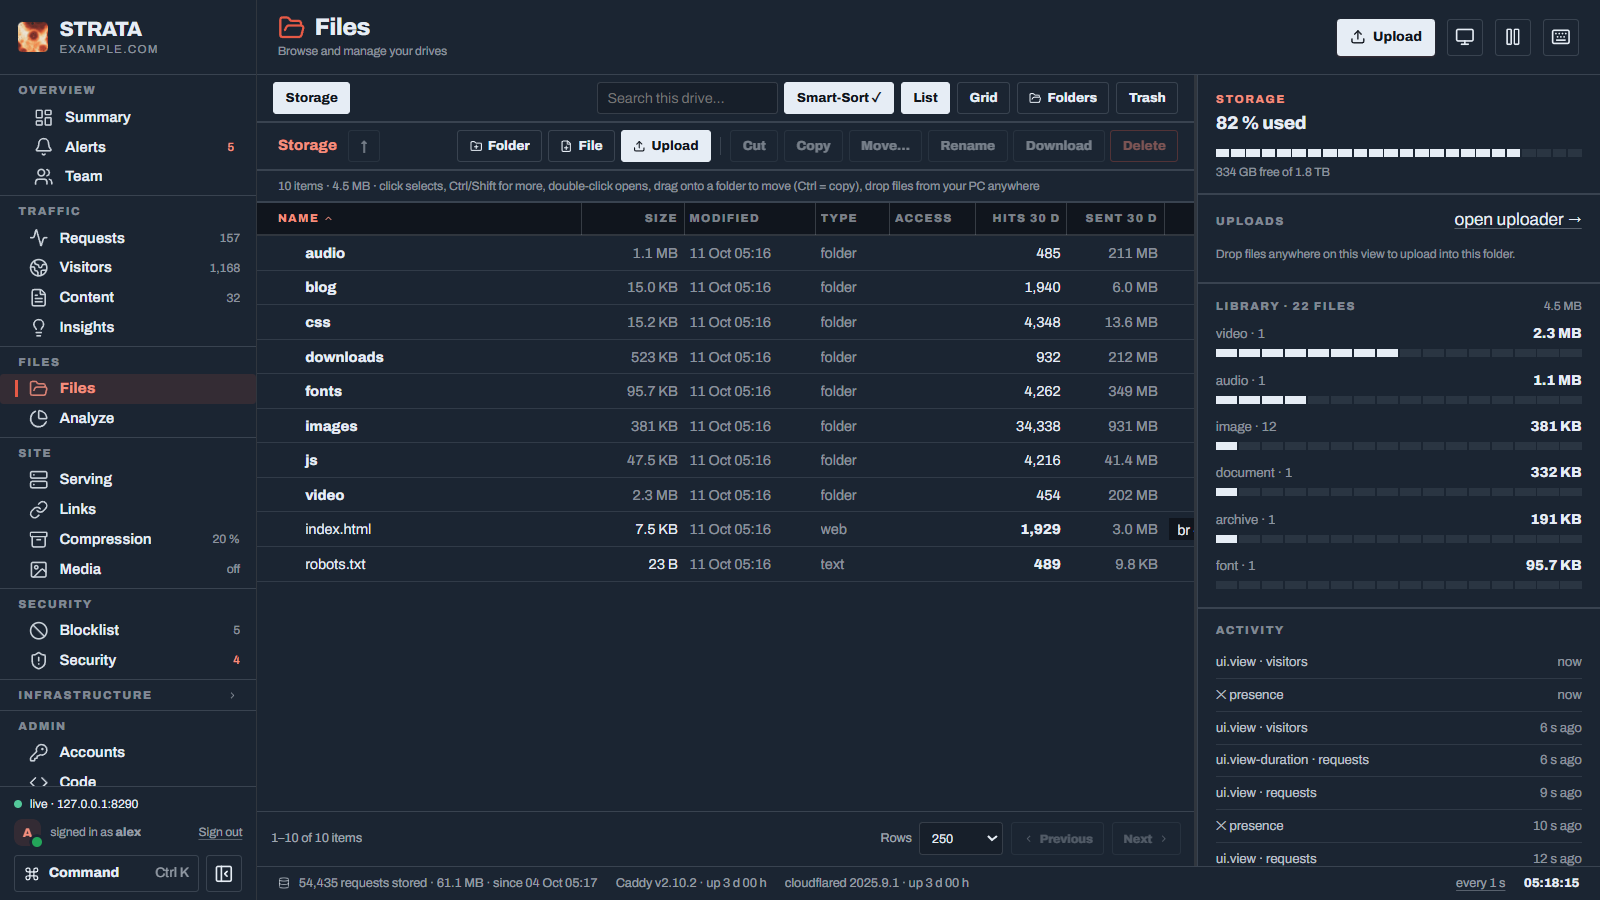
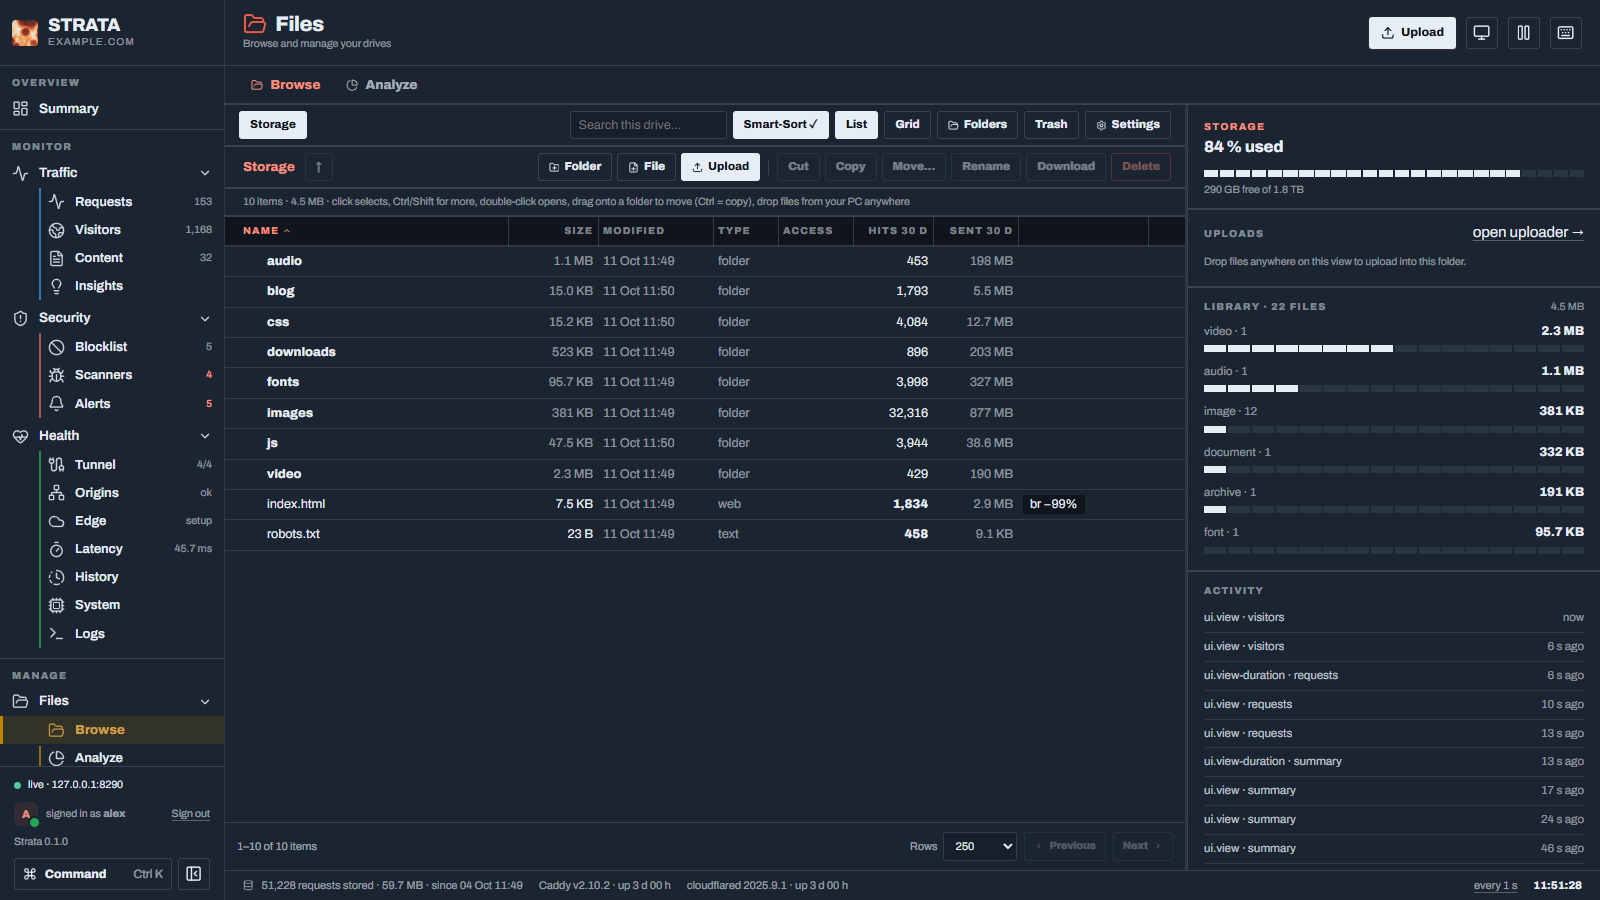
Release 0.2.0: README and screenshots refreshed for Phase 2 UX

diff --git a/core.py b/core.py
@@ -50,7 +50,7 @@ import urllib.request
 
 import instance
 
-VERSION = "0.1.0"                    # bump on every release; the dashboard compares it with the latest GitHub release
+VERSION = "0.2.0"                    # bump on every release; the dashboard compares it with the latest GitHub release
 ROOT = instance.CODE                     # shared code: static/, gallery/, media/*.py, vendor/
 HOME = instance.HOME                     # this site's instance home: strata.json, data/, generated/ (see instance.py)
 CONFIG_PATH = os.path.join(HOME, "strata.json")

diff --git a/README.md b/README.md
@@ -1,18 +1,16 @@
 <h1 align="center">Strata</h1>
 
 <p align="center">
-A self-hosted control panel for a Caddy file server behind a Cloudflare Tunnel.<br>
-Traffic analytics, file management, serving rules and security, on the machine that serves your files.
+A web interface for running a Caddy file server that sits behind a Cloudflare Tunnel.
 </p>
 
 <p align="center">
-<img src="docs/images/overview.png" alt="Strata's summary page: request and bandwidth tiles, a seven-day traffic chart with a launch-day spike, top files, and health of Caddy, the tunnel, storage and the host" width="100%">
+<img src="docs/images/overview.png" alt="The Summary page: request, bandwidth, visitor, error, latency and tunnel tiles, a seven-day traffic chart, the most requested files, and health of Caddy, the tunnel, storage and the host" width="100%">
 </p>
 
 <p align="center">
 <a href="#install">Install</a> ·
-<a href="#what-it-does">What it does</a> ·
-<a href="#how-it-fits-together">How it fits together</a> ·
+<a href="#how-it-works">How it works</a> ·
 <a href="#configuration">Configuration</a> ·
 <a href="#development">Development</a> ·
 <a href="SECURITY.md">Security</a>
@@ -20,61 +18,86 @@ Traffic analytics, file management, serving rules and security, on the machine t
 
 ---
 
-Strata runs next to [Caddy](https://caddyserver.com) and [cloudflared](https://github.com/cloudflare/cloudflared).
-It reads Caddy's access log, writes the part of Caddy's config that serves your files, and talks to the Cloudflare API
-for DNS, cache purges and edge blocking. You get one dashboard for what is being served, who is asking for it, and
-what is trying to break in.
+I serve files from a NAS through Caddy and a Cloudflare Tunnel. Managing that meant editing the Caddyfile and the
+cloudflared config by hand and reading Caddy's JSON access log to see what was going on. Strata started as a way to
+stop doing that, and grew from there into what my own setup needs.
 
-It is written in plain Python with no web framework and keeps everything in SQLite. It is built and used on Windows;
-Linux support is written but not tested yet (see [Platforms](#platforms)).
+It runs on the same machine as [Caddy](https://caddyserver.com) and
+[cloudflared](https://github.com/cloudflare/cloudflared). It reads Caddy's access log, writes the Caddy config for
+the folders you serve, and can use the Cloudflare API for DNS, cache purges and blocking IPs at the edge. It is plain
+Python with no web framework, stores everything in SQLite, and the dashboard is vanilla JavaScript with no build
+step.
+
+I build and run it on Windows. The Linux path is written but has never been run on a real Linux machine, see
+[Platforms](#platforms).
 
 ## What it does
 
-**Traffic.** A live request log with filters and saved views, visitors by country, network and client, the most
-requested files, latency percentiles, and longer-term patterns. Individual requests are kept for 30 days and
-aggregated statistics for 400 (both configurable), so the dashboard stays fast at millions of requests.
+### Serving files through Caddy
 
-**Files.** Browse, upload (chunked and resumable, up to 20 GB per file by default), rename, move, version and restore
-files on every drive you serve. Smart-Sorting files uploads into type folders. Disk usage and growth per folder.
+This is the part the rest is built around. You add *drives*: a folder, or a proxied service, on a hostname and an
+optional URL prefix. Access rules attach to a drive or a path: block, allow, password, signed links, cache headers,
+gallery folders, a download prompt, redirects. Strata turns all of it into one Caddy config file
+(`generated/cdn.caddy`), which your own Caddyfile imports with a single line.
 
-**Serving.** Drives (folders or proxied services) on hostnames and URL prefixes, access rules (block, allow, password,
-signed links, cache headers, gallery folders), custom 404 and 403 pages, short and signed links, and Brotli
-precompression of every file that gets meaningfully smaller. Every change is validated by Caddy before it goes live, and older configs can be
-restored from the history.
+Every change is checked with `caddy validate` before Caddy reloads it. If validation fails, the running config
+stays as it was. Earlier configs are kept, and you can roll back to one from the dashboard.
 
-**Security.** Probe and scanner detection, auto-bans that widen to a /24 when a range keeps misbehaving and get longer
-for repeat offenders, a blocklist that syncs to Cloudflare's edge, a login gate in front of proxied services, and
-alerts by e-mail.
+Files that shrink by enough get a Brotli copy next to them, which Caddy then serves to browsers that accept it.
 
-**Accounts.** An owner, administrators and members with fine-grained permissions, per-folder access zones, end dates,
-IP allowlists, an e-mailed code at every sign-in, optional TOTP for the owner, API keys and an audit log. Accounts
-that can change more than files sign in only from the local network.
-
-**Health.** Caddy, the tunnel connections, storage latency and the host itself, polled every few seconds.
+### Traffic
 
 <table>
 <tr>
-<td width="50%"><img src="docs/images/requests.png" alt="Requests: a live log with status, host, path, size, time, country, client and agent columns"></td>
-<td width="50%"><img src="docs/images/visitors.png" alt="Visitors: requests, unique visitors and bandwidth per country, with the share of people, media players, link previews and bots"></td>
-</tr>
-<tr>
-<td><img src="docs/images/files.png" alt="Files: folders with size, hits and bytes sent over 30 days, plus storage use and recent activity"></td>
-<td><img src="docs/images/blocklist.png" alt="Blocklist: automatic bans for single addresses and a /24 range, with the Cloudflare sync panel"></td>
+<td width="50%"><img src="docs/images/requests.png" alt="Requests: a live log with time, status, host, path, size, response time, country, client and agent"></td>
+<td width="50%"><img src="docs/images/visitors.png" alt="Visitors: requests, unique visitors and data sent per country, with the share of people, link previews and bots"></td>
 </tr>
 </table>
 
-<img align="right" src="docs/images/mobile.png" alt="The summary page on a phone" width="260">
+Strata tails Caddy's access log into SQLite. You get a live request log with filters and saved views, visitors by
+country, network and client, the most requested files, and latency percentiles. Single requests are kept for 30 days
+and per-minute, hourly and daily totals for 400, both adjustable. Countries come from Cloudflare's `Cf-Ipcountry`
+header, so there is no GeoIP database to keep updated.
 
-The dashboard works on a phone too: the sidebar becomes a scrolling tab row and the tiles stack.
+### Security
 
-Strata also includes:
+<img align="right" width="50%" src="docs/images/blocklist.png" alt="Blocklist: automatic bans for single addresses and a /24 range, next to the Cloudflare edge sync panel">
 
-- **Team**: a directory, presence, a noticeboard and private notes for the people with accounts.
-- **Code**: an in-browser editor for Strata's own source, with conflict checks and backups.
-- **Strata Transform** (`transform/`): resizing and format conversion behind `?w=`, `?h=` and `?fm=` links.
-- **Strata Media** (`media/`, off by default): AVIF and WebP variants negotiated per browser, a malware and content
-  scan before files go public, and a circuit breaker that protects the CPU. See [media/DESIGN.md](media/DESIGN.md).
-- **Strata Telemetry** (`telemetry/`): an optional public statistics page that only sees a redacted feed.
+Requests for things like `/.env` or `/wp-login.php` count as probes. An address that sends too many gets banned
+automatically. When several addresses in one /24 get banned within a week, the whole range is banned, and repeat
+offenders get longer bans. With a Cloudflare token the blocklist is also pushed to Cloudflare, so banned visitors
+are turned away at the edge instead of reaching your machine first.
+
+Alerts (bans, failed sign-ins, outages, low disk space, error spikes) show up in the dashboard and can go out by
+e-mail (any SMTP server, or Resend) and to webhooks (Discord, Slack, ntfy, or plain JSON).
+
+<br clear="right">
+
+### Everything else
+
+<img align="right" width="50%" src="docs/images/files.png" alt="Files: folders with size, hits and data sent over 30 days, plus storage use, library breakdown and recent activity">
+
+- **Files:** browse, upload (chunked and resumable, 20 GB per file by default), rename, move, keep versions and
+  restore them. Smart-Sort files uploads into folders by type.
+- **Accounts:** an owner, administrators and members with per-permission and per-folder access, end dates and IP
+  allowlists. Every sign-in needs a code sent by e-mail, and the owner can add TOTP. Accounts that can change more than
+  files can only sign in from the local network. There are API keys and an audit log.
+- **Health:** Caddy, the tunnel's edge connections, storage latency and the host, polled every few seconds.
+- **Code:** an editor for Strata's own source in the browser, with conflict checks and backups.
+- **Image links** (`transform/`): `?w=`, `?h=` and `?fm=` for resized or converted images.
+- **Media** (`media/`, off by default): serves AVIF/WebP images and WebM or MP4 videos to clients that can use them,
+  with `?nocompress` for the original, and pauses heavy work when the CPU is busy. It can also scan new uploads before
+  they go public. I run the image part on my own server; video conversion and upload scanning are newer and have seen
+  much less use. See [media/DESIGN.md](media/DESIGN.md).
+- **Telemetry** (`telemetry/`, optional): a public statistics page fed with redacted numbers only.
+
+<br clear="right">
+
+<img align="right" src="docs/images/mobile.png" alt="The Summary page on a phone" width="260">
+
+On a phone the sidebar turns into a row of tabs you can scroll and the tiles stack.
+
+A Team page (directory, presence, noticeboard) exists in the code but is hidden for now.
 
 <br clear="right">
 
@@ -83,55 +106,52 @@ Strata also includes:
 ### Windows
 
 You need [Python 3.10 or newer](https://www.python.org/downloads/) from python.org (the Microsoft Store version can't
-run as a service). Put the code in a folder such as `C:\Strata` (clone it or unpack the zip), then in that folder:
+run as a service). Put the code in a folder such as `C:\Strata`, then in that folder:
 
 ```powershell
 python setup.py
 ```
 
-Or double-click `setup.cmd`. The installer asks for administrator rights because it registers a service, and asks
-before every change. It walks through:
+Or double-click `setup.cmd`. It asks for administrator rights because it registers a service, and asks before each
+change. In order:
 
-1. **Python packages.** Installs `brotli`, `zstandard`, `Pillow` and `qrcode` into `vendor/` next to the code, where
-   the service finds them regardless of which user it runs as.
-2. **Your site.** The domain, the CDN hostname (`cdn.<domain>` by default) and the folder to serve.
-3. **Caddy.** Finds `caddy.exe` or offers to install it with winget. Backs up your Caddyfile into `backups\`, then adds
-   one `import` line for the config Strata renders, and optionally a site that exposes the dashboard to your LAN.
-   Caddy validates the result; if it doesn't, the old file is put back.
-4. **Cloudflare Tunnel.** Finds cloudflared, backs up its `config.yml` and adds an ingress rule for the CDN hostname.
-   With no tunnel yet it can create one (this opens a browser to sign in to Cloudflare) and point the DNS record at
-   it.
-5. **Keys and the owner account.** A Cloudflare API token (optional), an SMTP server (your mail provider's or your
-   own) or a [Resend](https://resend.com) API key for the sign-in codes, and the owner's username, password and e-mail.
+1. **Python packages:** `brotli`, `zstandard`, `Pillow` and `qrcode`, installed into `vendor/` next to the code so
+   the service finds them whichever user it runs as.
+2. **Your site:** the domain, the CDN hostname (`cdn.<domain>` by default) and the folder to serve.
+3. **Caddy:** finds `caddy.exe` or offers to install it with winget. Backs up your Caddyfile into `backups\`, adds
+   the `import` line, and optionally a site that shows the dashboard on your LAN. If Caddy rejects the result, the old
+   file is put back.
+4. **Cloudflare Tunnel:** finds cloudflared, backs up its `config.yml` and adds an ingress rule for the CDN hostname.
+   Without a tunnel it can create one (a browser opens to sign in to Cloudflare) and point the DNS record at it.
+5. **Keys and the owner account:** a Cloudflare API token (optional), mail for the sign-in codes, and the owner's
+   username, password and e-mail.
 6. **`strata.json`**, written to the instance folder. An existing one is backed up first.
-7. **The service.** A Task Scheduler task that starts at boot as SYSTEM, has no time limit and restarts after a
-   failure. Then it waits for the dashboard to answer.
+7. **The service:** a Task Scheduler task that starts at boot as SYSTEM and restarts after a failure.
 
-Open `http://127.0.0.1:8090` and sign in. If you skipped the owner account, the same address shows a one-time form
-to create it; that form only works from the machine itself.
+Then open `http://127.0.0.1:8090`. If you skipped the owner account, that address shows a one-time form to create it,
+which only works from the machine itself.
 
-Running `setup.py` again is safe: every question shows the current value, and Enter keeps it.
+`setup.py` can be run again at any time: each question shows the current value and Enter keeps it.
 
 | Command | |
 |---|---|
-| `python setup.py --check` | What is installed and running, without changing anything |
+| `python setup.py --check` | Show what is installed and running, change nothing |
 | `python setup.py --no-service` | Configure only; start Strata yourself with `python strata.py` |
-| `python setup.py --home D:\sites\example.net` | Set up a second site in its own folder, on the next free ports |
+| `python setup.py --home D:\sites\example.net` | A second site in its own folder, on the next free ports |
 | `python setup.py --uninstall` | Remove the service. Configuration and data stay |
 
 ### Linux
 
-The installer does the same on Linux with systemd units instead of scheduled tasks; run it with `sudo`. Install
-Caddy and cloudflared from their packages first. This path hasn't been tested on a Linux machine yet, so expect rough
-edges, and reports are welcome. Restarting the tunnel from the dashboard is Windows-only for now.
+The installer has a systemd path; run it with `sudo` after installing Caddy and cloudflared from their packages. It
+has not been run on a real Linux machine yet, so expect problems, and reports are welcome. Restarting the tunnel from
+the dashboard only works on Windows for now.
 
-### Sign-in codes
+### Mail for sign-in codes
 
-Every sign-in sends a six-digit code by e-mail, and the owner can't sign in without one. That makes a way to send mail
-a requirement: any SMTP server (your mail provider's, such as Fastmail, Gmail, Mailgun, Postmark or Amazon SES, or a
-self-hosted one such as Postfix, Mailcow or Stalwart), or a [Resend](https://resend.com) API key with a sender on a
-domain you verified there. Pick one with the Custom SMTP / Resend switch under Security › Alerts › Delivery. To set or change them later (the SMTP password is asked for,
-never put on the command line):
+Every sign-in sends a six-digit code by e-mail, and the owner can't sign in without one, so Strata needs a way to
+send mail: any SMTP server (your mail provider's or your own), or a [Resend](https://resend.com) API key with a
+sender on a domain you verified there. Switch between the two under Security › Alerts › Delivery, or from the
+command line (the SMTP password is asked for, never passed as an argument):
 
 ```
 python auth.py --smtp <host> <port> <user> <from address>
@@ -139,10 +159,10 @@ python auth.py --resend <api key> <from address>
 python auth.py --email <owner address>
 ```
 
-Port 465 uses TLS, any other port STARTTLS. A relay on your own network that needs neither can be set to "None" under
-Security › Alerts › Delivery; Strata then refuses to send a password over it.
+Port 465 uses TLS, any other port STARTTLS. A relay on your own network without encryption can be set to "None" in
+Delivery; Strata then won't send a password to it.
 
-## How it fits together
+## How it works
 
 ```mermaid
 flowchart LR
@@ -156,47 +176,47 @@ flowchart LR
     A[You, on the LAN] --> S
 ```
 
-Nothing Strata runs is published to the internet: the dashboard listens on `127.0.0.1`, and Caddy can expose it to
-your LAN. The public only ever reaches Caddy, through the tunnel.
+The dashboard listens on `127.0.0.1` only. Caddy can optionally expose it on your LAN. Visitors from the internet
+only ever reach Caddy, through the tunnel.
 
 | Port | Process | Purpose |
 |---|---|---|
 | 8090 | `strata.py` | Dashboard and API (loopback) |
-| 8091 | Caddy | Optional: the dashboard for your LAN |
-| 8080 | Caddy | The CDN site Strata renders; cloudflared points here |
-| 8081 | `strata.py` | Redacted feed for Strata Telemetry (loopback, token) |
-| 8083 | `transform/transform.py` | Resizing and signed links (loopback) |
-| 8084 | `media/media.py` | Strata Media, when enabled (loopback) |
-| 8085 | `gate.py` | Login in front of proxied services (loopback) |
+| 8091 | Caddy | Optional: the dashboard on your LAN |
+| 8080 | Caddy | The site Strata renders; cloudflared points here |
+| 8081 | `strata.py` | Redacted feed for the telemetry page (loopback, token) |
+| 8083 | `transform/transform.py` | Image resizing and signed links (loopback) |
+| 8084 | `media/media.py` | Media, when enabled (loopback) |
+| 8085 | `gate.py` | Sign-in in front of proxied services (loopback) |
 
-A second site set up with `--home` gets the same set shifted by 100 (8190, 8191, ...).
+A second site set up with `--home` uses the same ports plus 100 (8190, 8191, ...).
 
 ## Configuration
 
-Each site has an *instance folder* (by default the code folder itself) holding `strata.json`, the database in
-`data/`, and the Caddy config Strata renders in `generated/`. One copy of the code can serve several sites, each
-started with its own `--home`. Most settings are changed in the dashboard; these are the ones the installer writes:
+Each site has an *instance folder* (by default the code folder) with `strata.json`, the database in `data/` and the
+rendered Caddy config in `generated/`. One copy of the code can run several sites, each started with its own
+`--home`. Most settings are changed in the dashboard; these are the ones the installer writes:
 
 | Key | Meaning |
 |---|---|
 | `instance.name`, `instance.id` | Shown in the dashboard; `id` keeps names unique between sites |
-| `public.hosts`, `public_base_url` | The hostnames you serve and the URL that share links use |
+| `public.hosts`, `public_base_url` | The hostnames you serve and the base URL for share links |
 | `storage_paths` | Folders to serve. The first one becomes the first drive |
-| `caddy_exe`, `caddyfile`, `access_log` | Where Caddy, its config and the log it writes live |
+| `caddy_exe`, `caddyfile`, `access_log` | Where Caddy, its config and its log are |
 | `cloudflared_exe`, `cloudflared_config`, `instance.tunnel_restart` | The tunnel and how to restart it after ingress changes |
 | `cloudflare.api_token`, `cloudflare.zone_id` | Optional. The `CF_API_TOKEN` environment variable overrides the token |
-| `alerts.smtp` (`host`, `port`, `security`, `user`, `password`) or `alerts.resend_api_key`; `alerts.from`, `alerts.to` | E-mail for sign-in codes and alerts |
+| `alerts.provider`, `alerts.smtp` or `alerts.resend_api_key`, `alerts.from`, `alerts.to` | Mail for sign-in codes and alerts |
 | `listen`, `feed_listen`, `transform_listen`, `gate_listen` | Loopback addresses of Strata's own processes |
 
-Every default is in `DEFAULTS` at the top of [core.py](core.py). `strata.json` holds secrets and is in `.gitignore`.
+All defaults are in `DEFAULTS` at the top of [core.py](core.py). `strata.json` holds secrets and is in `.gitignore`.
 
 ## Platforms
 
 | | Windows | Linux |
 |---|---|---|
-| Dashboard, analytics, files, serving, accounts | yes | written, untested |
-| Installer | Task Scheduler | systemd, untested |
-| Restart the tunnel from the dashboard | yes | not yet |
+| Dashboard, traffic, files, serving, accounts | yes | written, not run yet |
+| Installer | Task Scheduler | systemd, not run yet |
+| Restart the tunnel from the dashboard | yes | no |
 | Drive letters and volume labels in the drive picker | yes | n/a |
 
 ## Development
@@ -205,17 +225,17 @@ Every default is in `DEFAULTS` at the top of [core.py](core.py). `strata.json` h
 python tests/run_all.py
 ```
 
-Builds a throwaway instance in a temp folder with a stub Caddy, seeds a few accounts, and runs every suite: first-run
-setup, security regressions, permissions, Team, sign-in, the installer, auto-bans and the Strata Media unit tests.
-Nothing outside the temp folder is touched, and Caddy doesn't need to be installed. Details in
+Builds a throwaway instance in a temp folder with a stub Caddy, seeds some accounts and runs every suite: first-run
+setup, mail, security regressions, permissions, team, sign-in, the installer, auto-bans and the media unit tests.
+Nothing outside the temp folder is touched and Caddy doesn't have to be installed. More in
 [tests/README.txt](tests/README.txt).
 
 ```
 python tests/demo.py
 ```
 
-Starts a demo on `http://127.0.0.1:8290` with a week of made-up traffic and sample files. The screenshots above come
-from it. Its visitors use the IP ranges reserved for documentation, so it never shows a real address.
+Starts a demo on `http://127.0.0.1:8290` with a week of made-up traffic and sample files; the screenshots are from
+it. Its visitors use the IP ranges reserved for documentation, so it never shows a real address.
 
 ```
 strata.py         HTTP server, routes, sign-in             rules.py       serving rules, Caddy config, auto-ban
@@ -223,15 +243,15 @@ core.py           config, log tailer, metrics, database    files.py       file o
 accounts.py       accounts, permissions, zones             network.py     Cloudflare DNS and zone, tunnel ingress
 auth.py           passwords, sessions, TOTP, API keys      cloudflare.py  Cloudflare API, edge blocklist, purges
 rollup.py         aggregated statistics                    compress.py    Brotli precompression
-alerts.py         alerts and e-mail                        gate.py        login gate for proxied services
-setup.py          the installer                            static/        the dashboard (vanilla JS, no build step)
+alerts.py         alerts, e-mail, webhooks                 gate.py        sign-in for proxied services
+backup.py         backup and restore                       setup.py       the installer
+static/           the dashboard (vanilla JS)               media/         media pipeline (see DESIGN.md)
 ```
 
-## Roadmap
-
-[ROADMAP.md](ROADMAP.md) lists what is planned next: splitting up the Settings page, merging related pages into tabs,
-custom CSS, backup and restore, and webhook alerts.
+What's next is in [ROADMAP.md](ROADMAP.md). The open items that matter most: one real run of the Linux path, one of
+the Windows service as SYSTEM, and deciding whether sign-in should work without e-mail.
 
 ## License
 
-[MIT](LICENSE). The bundled CodeMirror and Lucide icons keep their own licenses, in `static/vendor/`.
+[MIT](LICENSE). The bundled CodeMirror and Lucide icons keep their own licenses, in `static/vendor/`. The other
+projects Strata depends on are credited under Settings › About.
